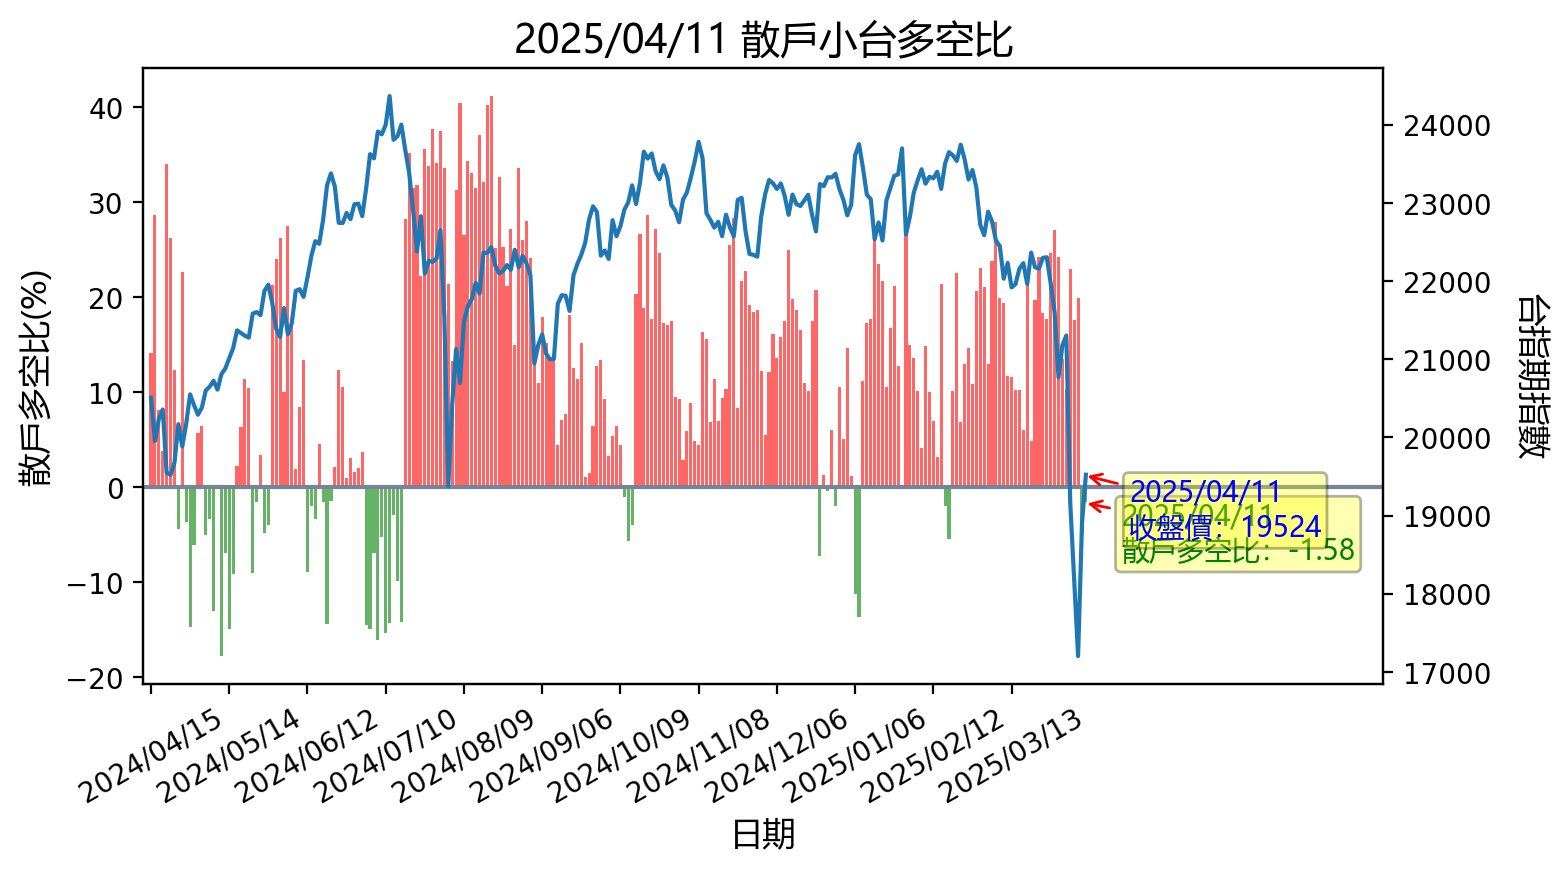
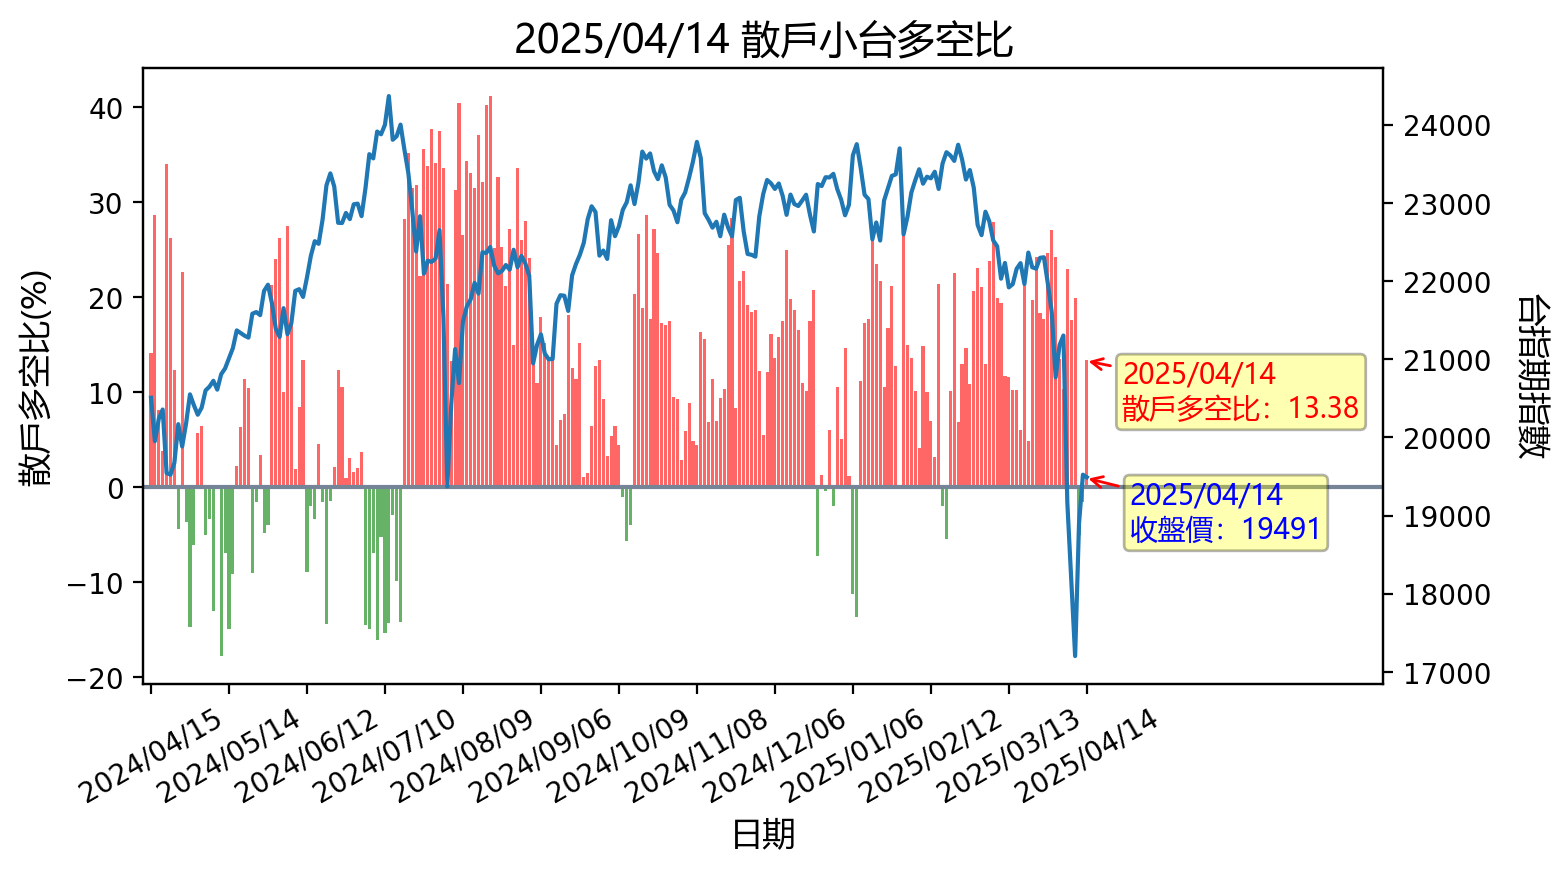
更新時間: Mon Apr 14 16:40:14 CST 2025

diff --git a/README.md b/README.md
@@ -1,12 +1,12 @@
-## 20250413 台指期「預估換倉成本」
+## 20250414 台指期「預估換倉成本」
 ![](images/txfcost.png)
 
-## 20250413 台指期「散戶小台多空比」
+## 20250414 台指期「散戶小台多空比」
 ![](images/bbiri.png)
 
-## 20250413 台指選擇權「Put/Call Ratios」
+## 20250414 台指選擇權「Put/Call Ratios」
 ![](images/pcratio.png)
 
-## 20250413 台指期「大額交易人」
+## 20250414 台指期「大額交易人」
 ![](images/blocktrade.png)
 
